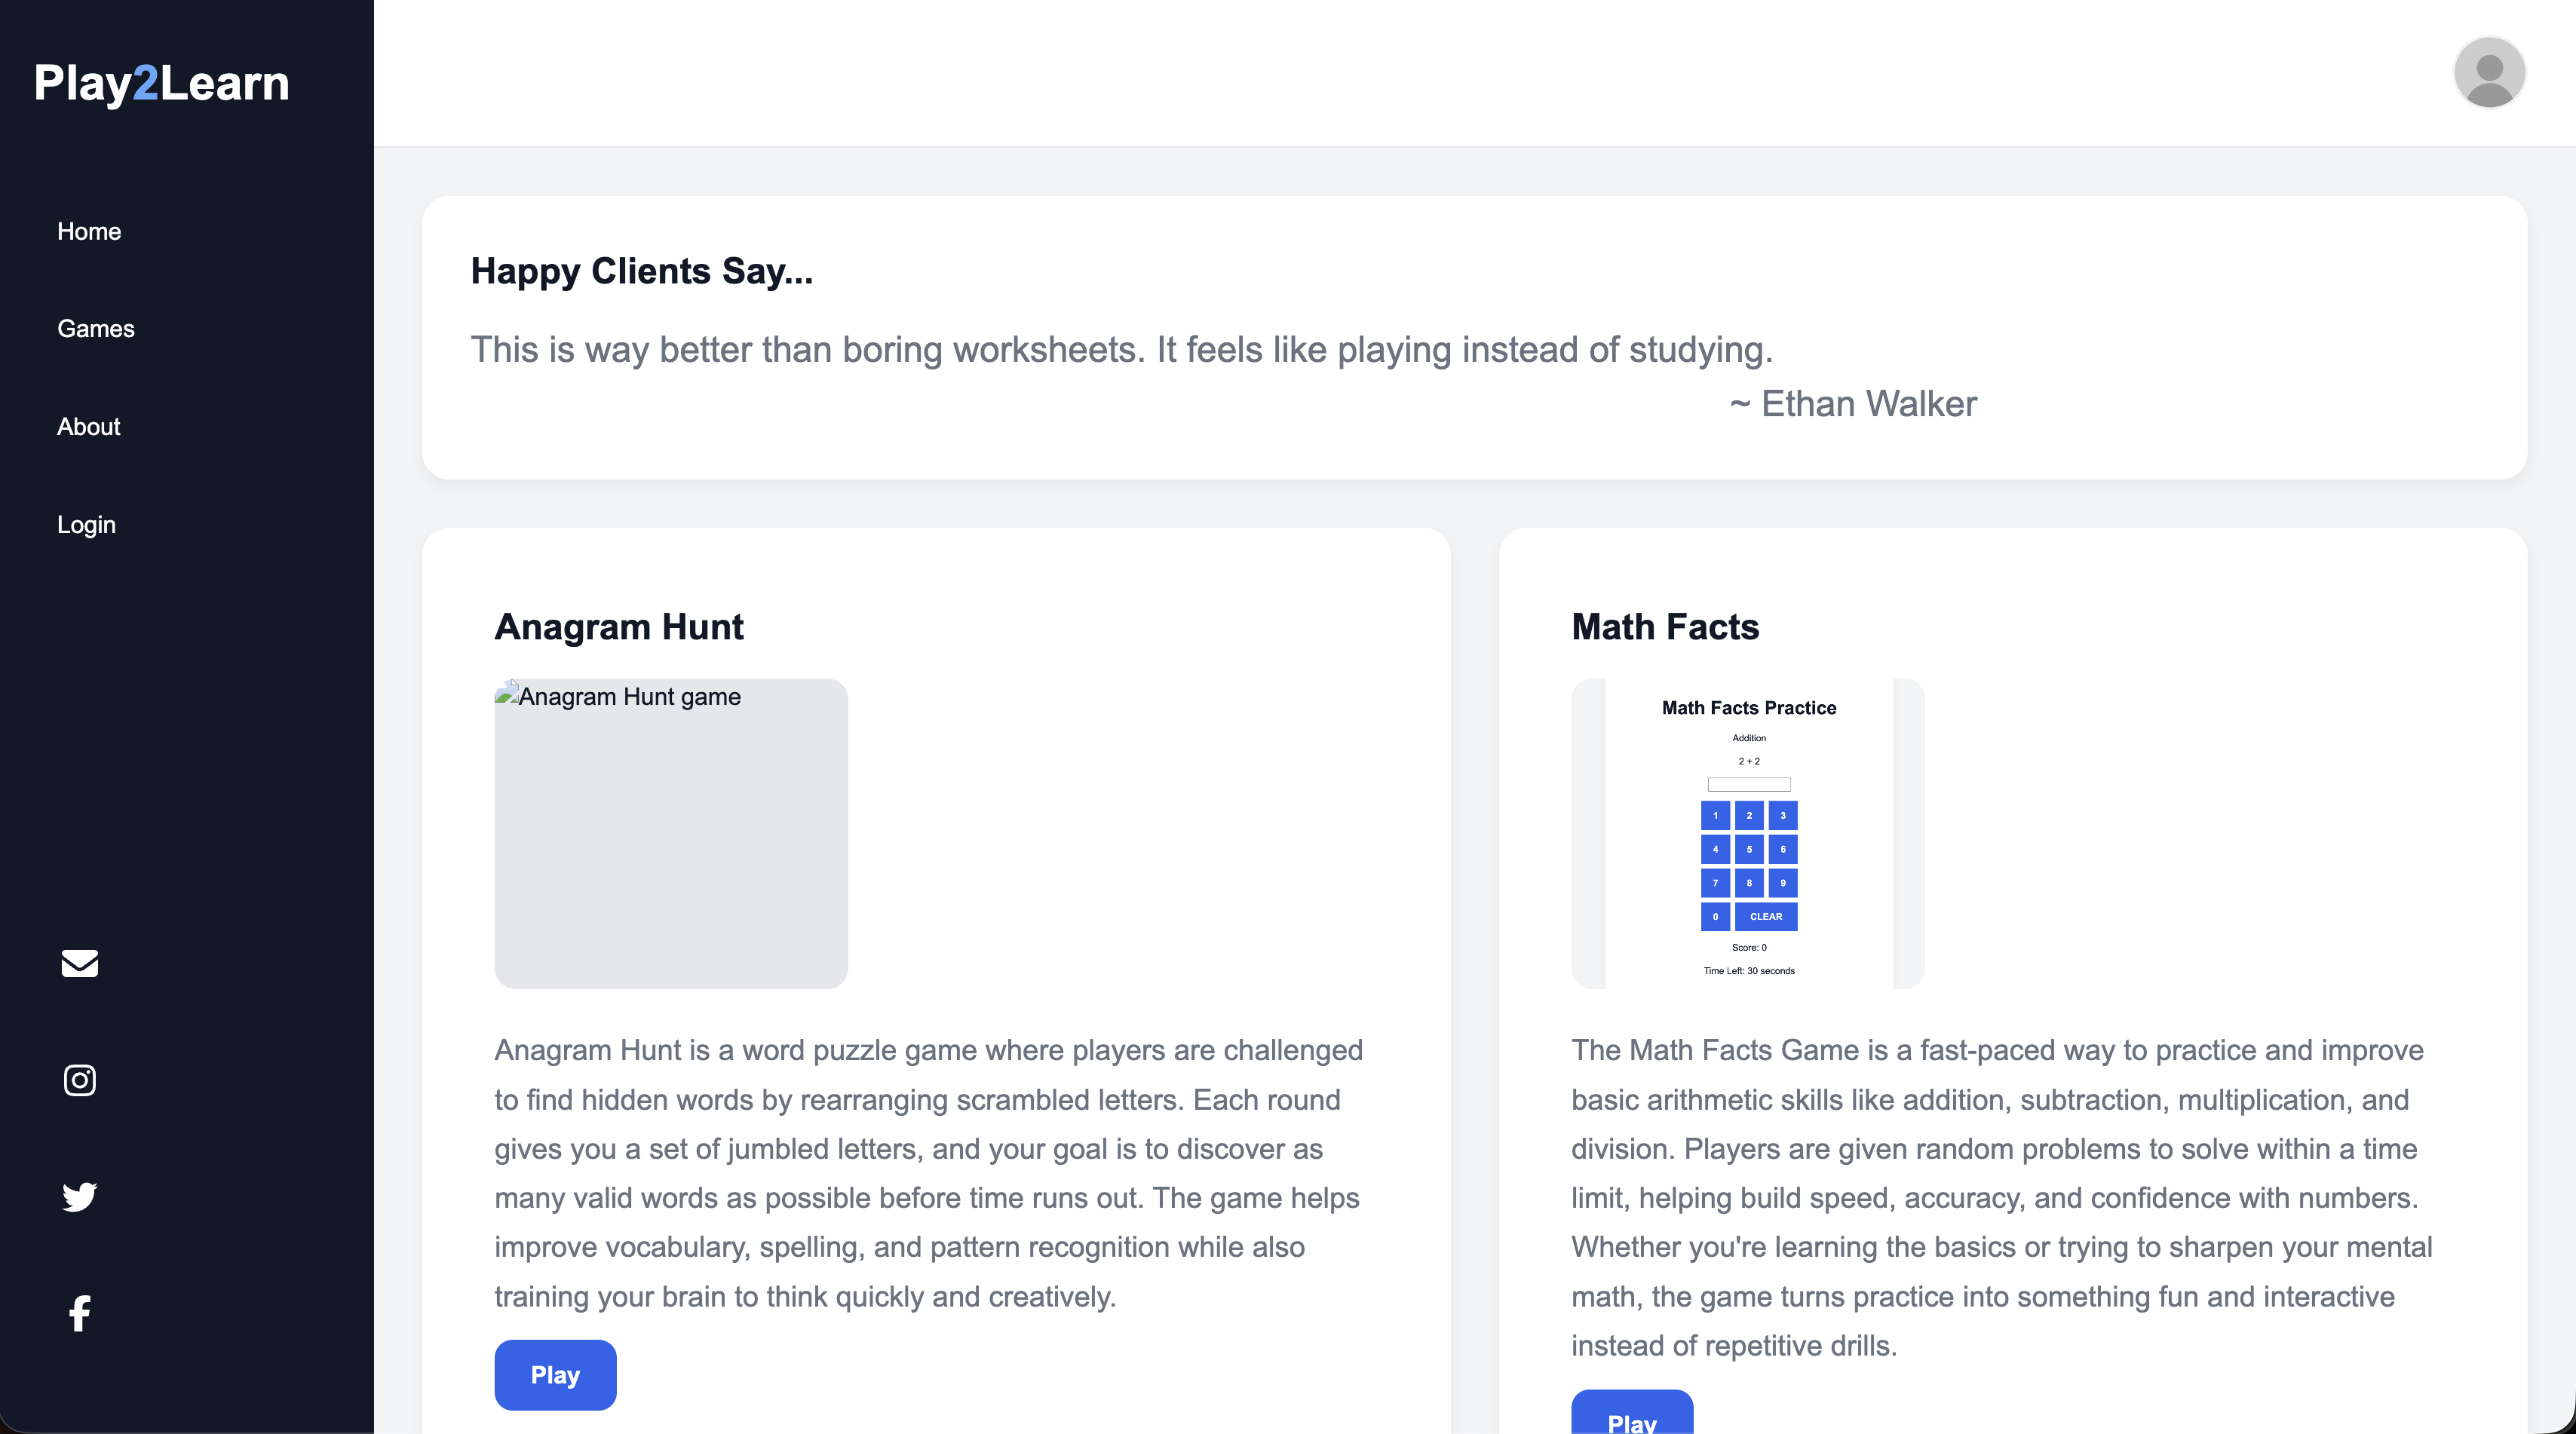
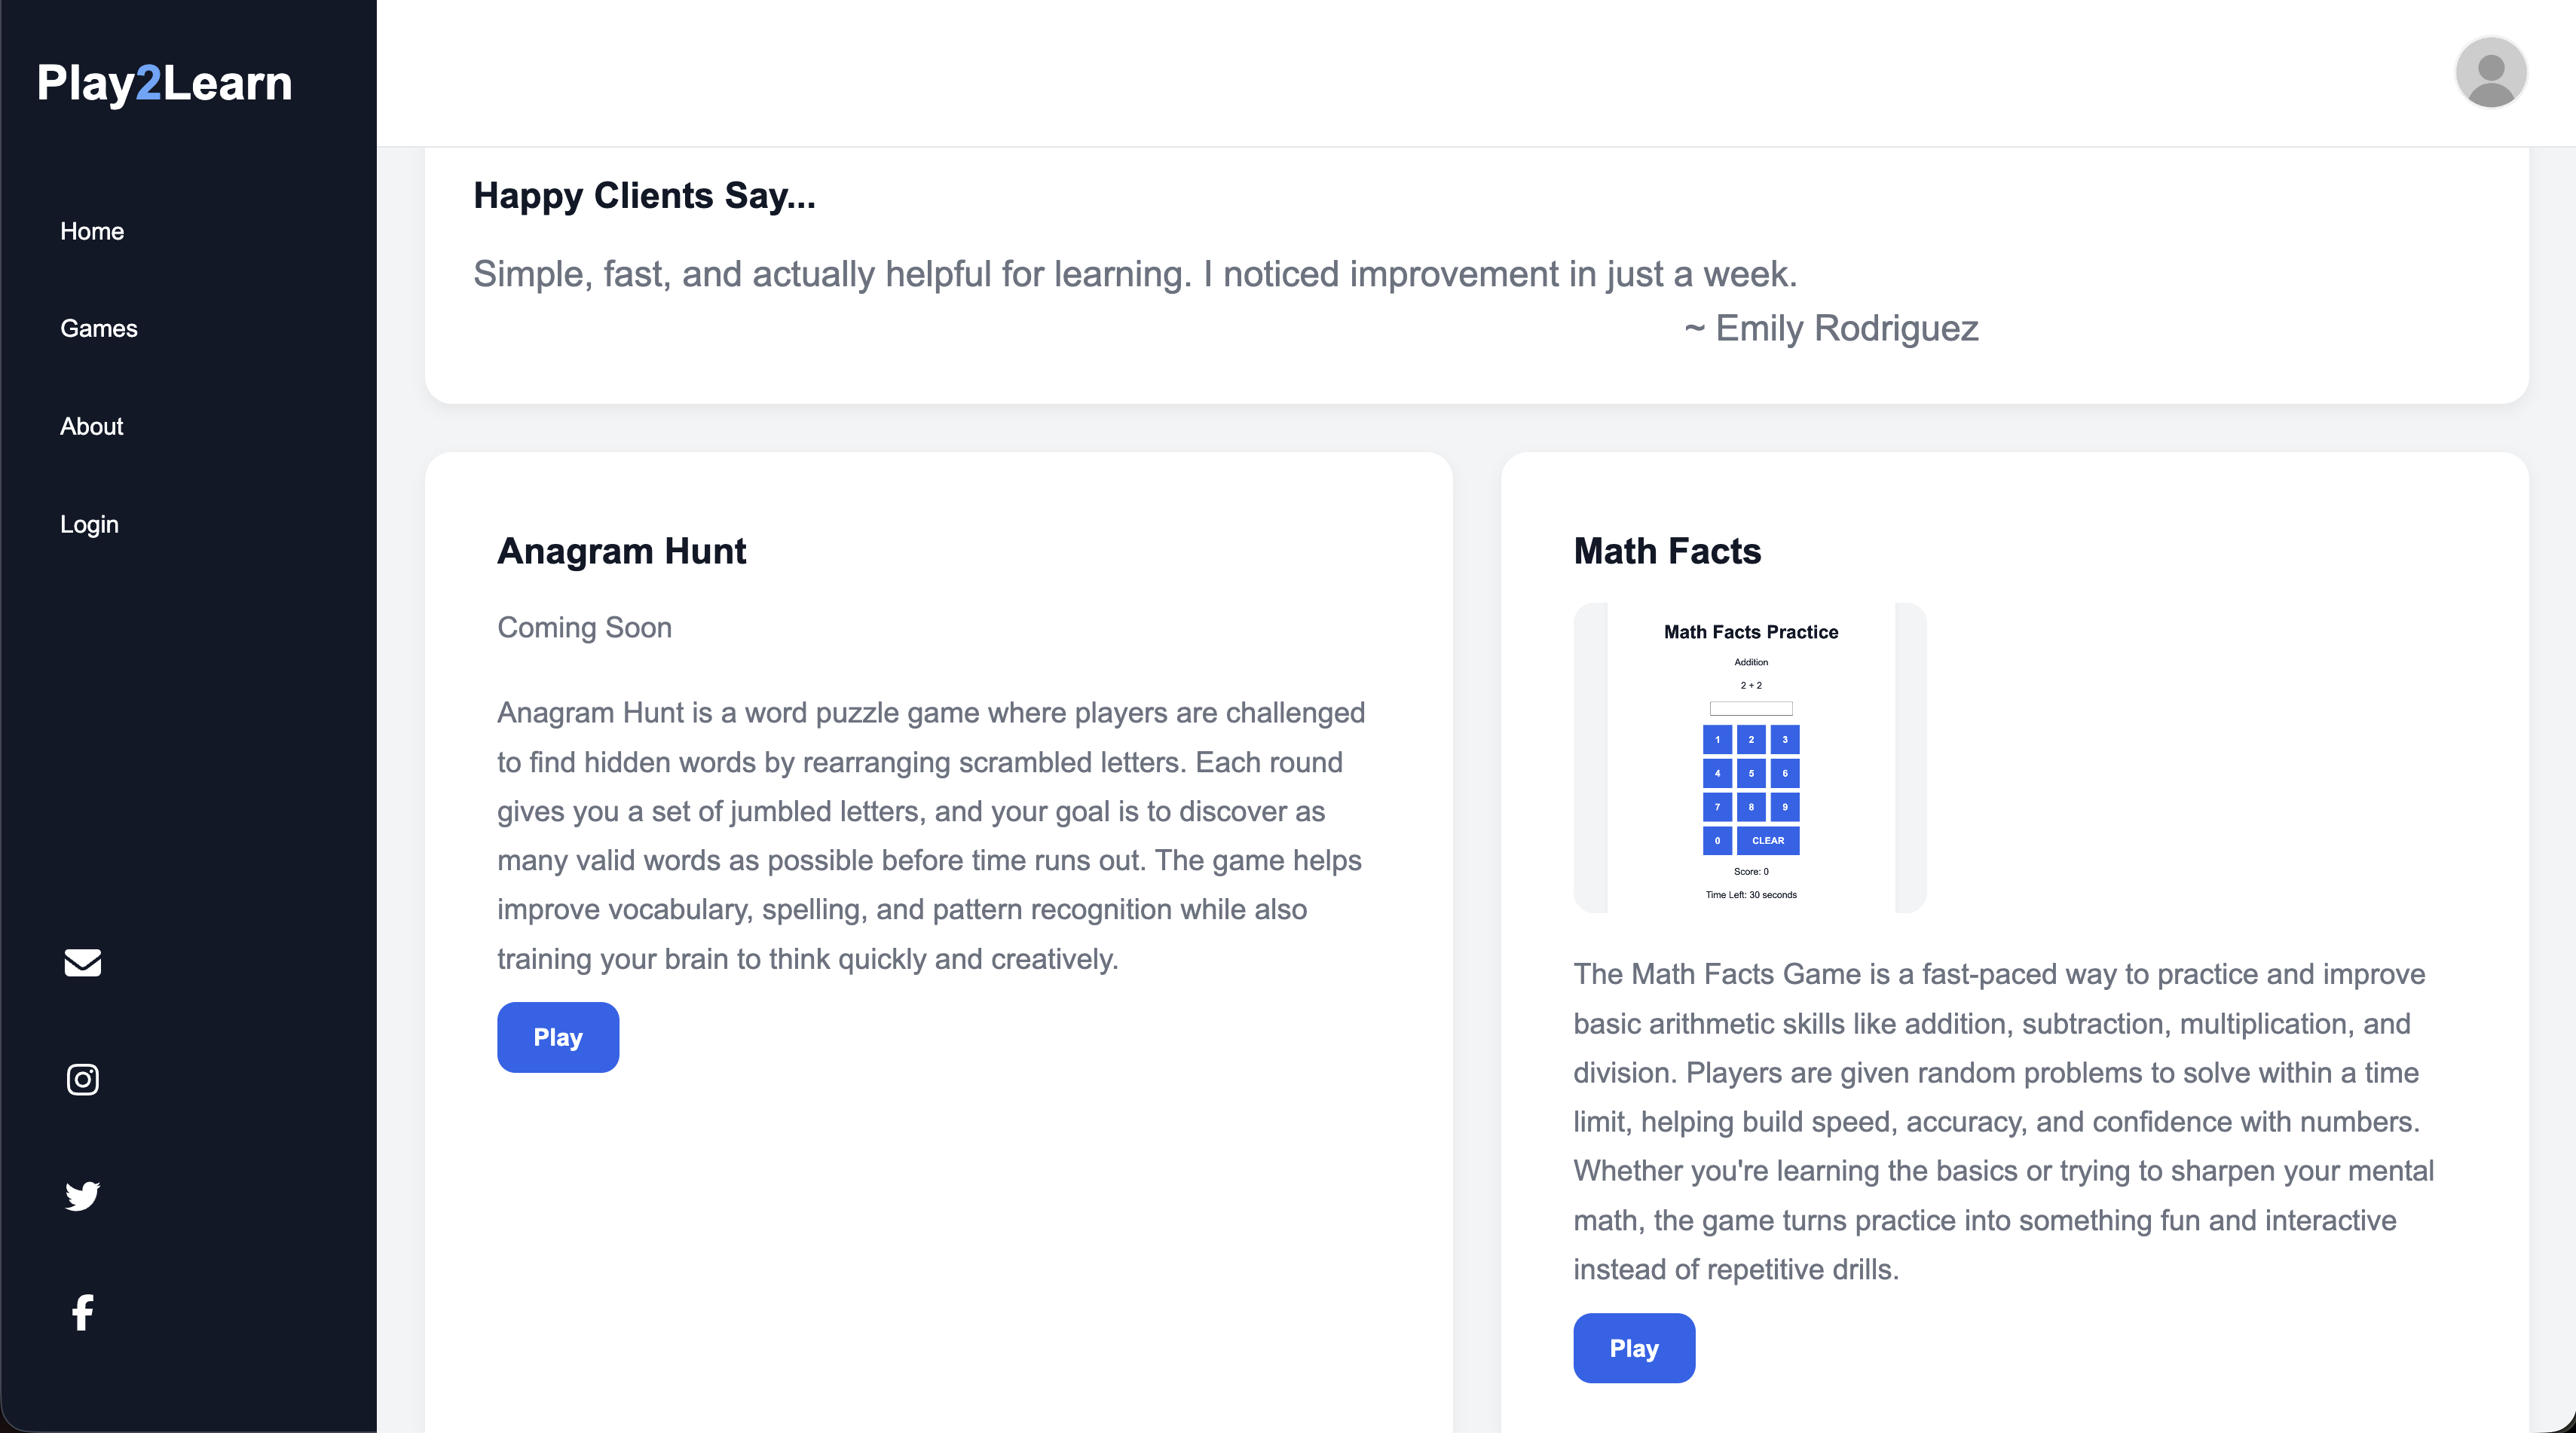
remove img tag on home page add new screen shot

diff --git a/index.html b/index.html
@@ -91,8 +91,8 @@
           <section class="games">
             <div class="game-card card">
               <h2>Anagram Hunt</h2>
-              <div class="img-container">
-                <img src="" alt="Anagram Hunt game" />
+              <div>
+                <p>Coming Soon</p>
               </div>
               <p>
                 Anagram Hunt is a word puzzle game where players are challenged